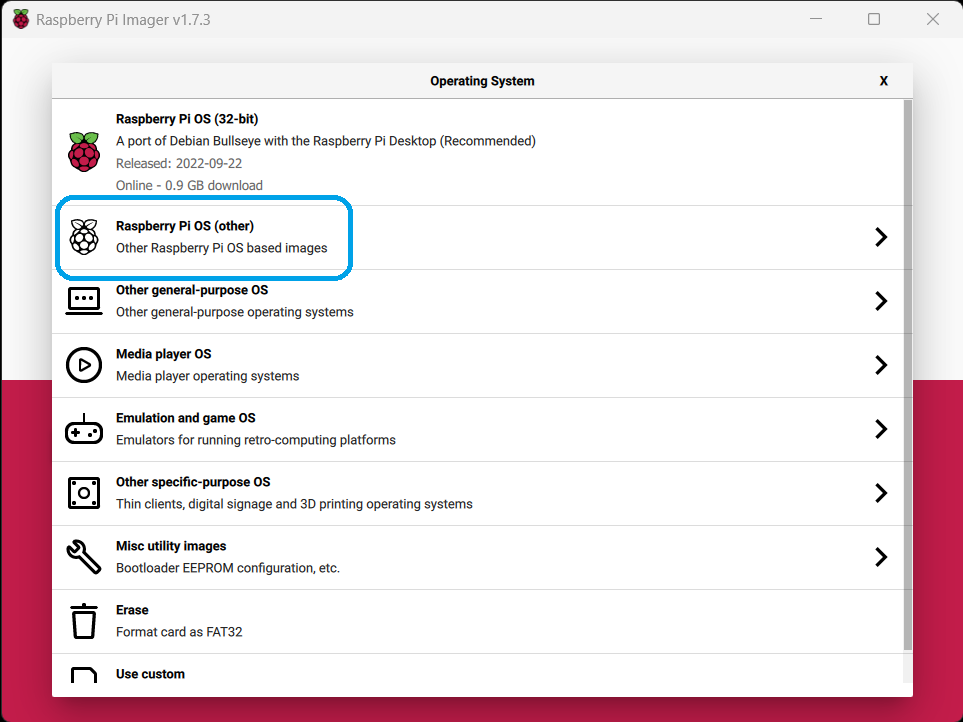
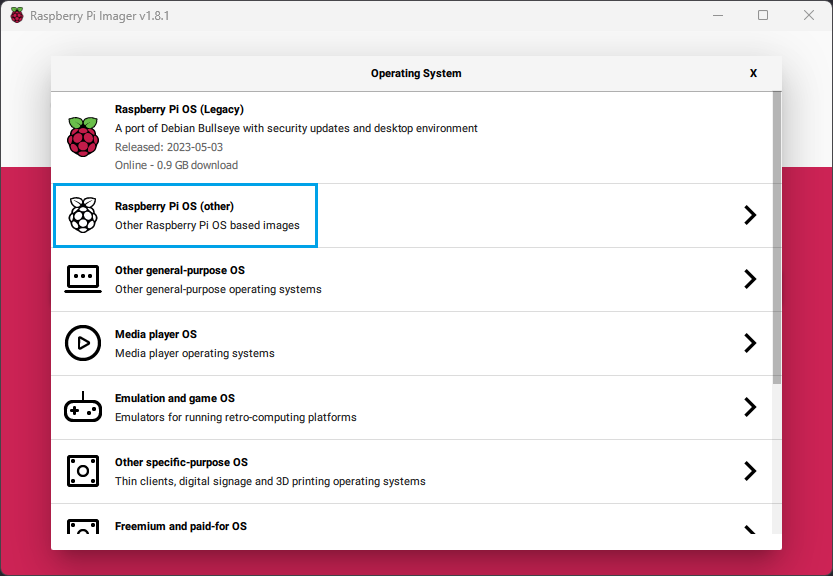
Update pisetup.md
Update RPi OS installation to use latest version v1.8.1 of RPi imager.

diff --git a/docs/software/pisetup.md b/docs/software/pisetup.md
@@ -15,97 +15,125 @@ Raspberry Pi. You can find more details on this topic and instructions for macOS
 [VS Code Docs](https://code.visualstudio.com/docs/remote/troubleshooting#_configuring-key-based-authentication){target=_blank} and
 [Raspberry Pi Docs](https://www.raspberrypi.com/documentation/computers/remote-access.html#passwordless-ssh-access){target=_blank}.
 
-First check if there is already an SSH key on your computer by going to the
-`C:\Users\<username>\.ssh` folder. If there is a file named `id_rsa.pub` you can
-skip this step and move on to [RPi OS installation](#raspberry-pi-os-installation).
-If you can't find the `.ssh` folder or the key file, you will have to generate
-a new SSH key pair on your local PC.
-[Open](https://www.digitalcitizen.life/open-windows-terminal/){target=_blank}
-a local Terminal (Windows PowerShell) and run the following command:
+Since [version 1.8.1](https://github.com/raspberrypi/rpi-imager/releases/tag/v1.8.1){target=_blank}
+of the Raspberry Pi Imager, you can now easily generate a new SSH key pair during
+Raspberry Pi OS installation in the next step. If you still want to generate your
+SSH key pair manually or set up SSH key based authentication after SD card setup,
+follow the steps in the info box.
 
-``` powershell
-ssh-keygen -t rsa -b 4096
-```
+??? info "Generate SSH key manually"
 
-Save the key to the default location `C:\Users\<username>/.ssh/id_rsa` by hitting ++enter++.
-When you are asked to enter a passphrase, leave the field empty and hit ++enter++ twice.
-You have now generated a private and public SSH key, and will be able to select
-**public-key authentication** during the [RPi OS installation](#raspberry-pi-os-installation).
-
-!!! tip ""
-
-    If you want to connect your Raspberry Pi to multiple local PCs with SSH
-    key based authentication, generate an SSH key pair on each local PC and
-    copy the line with the public key from `/.ssh/id_rsa.pub` on your PC to
-    a new row in `/home/pi/.ssh/authorized_keys` on your Raspberry Pi.
-
-    ![Raspberry Pi add SSH key](assets/images/vscode_raspberry_add_ssh_key.png){ width="600" }
-
-??? info "Optional: SSH key based authentication after SD card setup"
-
-    If you already have the SD card prepared without public-key authentication,
-    you can still configure this by following the steps above to generate the
-    key pair and then (while connected to your Raspberry Pi via SSH) running
-    the following command in your local Terminal (Windows PowerShell):
+    First check if there is already an SSH key pair on your computer by going to
+    the `C:\Users\<username>\.ssh` folder. If there are two files named `id_rsa`
+    and `id_rsa.pub` you can skip this step and move on to
+    [RPi OS installation](#raspberry-pi-os-installation). If you can't find the `.ssh`
+    folder or the key files, you will have to generate a new SSH key pair on your PC.
+    [Open](https://www.digitalcitizen.life/open-windows-terminal/){target=_blank}
+    a local Terminal (Windows PowerShell) and run the following command:
 
     ``` powershell
-    cat ~/.ssh/id_rsa.pub | ssh pi@<IP-ADDRESS> 'mkdir -p ~/.ssh && cat >> ~/.ssh/authorized_keys'
+    ssh-keygen -t rsa -b 4096
     ```
 
-    Please make sure to enter the correct `IP address` (or hostname) of your
-    Raspberry Pi. After entering your RPi password, your public SSH key will be
-    saved to `/home/pi/.ssh/authorized_keys`. After that you won't be asked to
-    enter your password again, as the authentication is now based on the SSH key.
+    Save the key to the default location `C:\Users\<username>/.ssh/id_rsa` by
+    hitting ++enter++. When you are asked to enter a passphrase, leave the field
+    empty and hit ++enter++ twice. You have now generated a private and public
+    SSH key. The public SSH key should be automatically inserted during the
+    [RPi OS installation](#raspberry-pi-os-installation) in the next step, if
+    you choose public-key authentication.
+
+    !!! tip ""
+
+        If you want to connect your Raspberry Pi to multiple local PCs with SSH
+        key based authentication, generate an SSH key pair on each local PC and
+        copy the line with the public key from `/.ssh/id_rsa.pub` on your PC to
+        a new row in `/home/pi/.ssh/authorized_keys` on your Raspberry Pi.
+
+        ![Raspberry Pi add SSH key](assets/images/vscode_raspberry_add_ssh_key.png){ width="600" }
+
+    ??? info "Optional: SSH key based authentication after SD card setup"
+
+        If you already have the SD card prepared without public-key authentication,
+        you can still configure this by following the steps above to generate the
+        key pair and then (while connected to your Raspberry Pi via SSH) running
+        the following command in your local Terminal (Windows PowerShell):
+
+        ``` powershell
+        cat ~/.ssh/id_rsa.pub | ssh pi@<IP-ADDRESS> 'mkdir -p ~/.ssh && cat >> ~/.ssh/authorized_keys'
+        ```
+
+        Please make sure to enter the correct `IP address` (or hostname) of your
+        Raspberry Pi. After entering your RPi password, your public SSH key will be
+        saved to `/home/pi/.ssh/authorized_keys`. After that you won't be asked to
+        enter your password again, as the authentication is now based on the SSH key.
 
 ---
 
 ## Raspberry Pi OS installation
 
-Insert the microSD card into your card reader and start the Raspberry Pi
-Imager. First, we will choose the appropriate OS.
+Insert the microSD card into your card reader and open the Raspberry Pi
+Imager. Start with selecting your device (Raspberry Pi model).
 
-![Raspberry Pi Imager Start](assets/images/raspberrypi_imager_start.png){ width="600" }
+![Raspberry Pi Imager choose device](assets/images/raspberrypi_imager_device.png){ width="700" }
 
-We don't want to install the default OS with Desktop, so you have to go to the
-other Raspberry Pi OS based images.
+If you are using the recommended model Raspberry Pi Zero 2 W, select it.
 
-![Raspberry Pi Imager choose OS](assets/images/raspberrypi_imager_choose_os.png){ width="600" }
+![Raspberry Pi Imager RPi Zero 2 W](assets/images/raspberrypi_imager_rpizero2w.png){ width="700" }
+
+Choose the RPi OS in the next step. We don't want to install the default OS with
+Desktop, so you have to go to the other Raspberry Pi OS based images.
+
+![Raspberry Pi Imager choose OS](assets/images/raspberrypi_imager_choose_os.png){ width="700" }
 
 Select the option **Raspberry Pi OS (Legacy) Lite** (Debian Bullseye). The new Raspberry Pi OS
 ([Debian Bookworm](https://www.raspberrypi.com/news/bookworm-the-new-version-of-raspberry-pi-os/){target=_blank}),
 released 2023-10-10, introduces several changes including the setup and configuration
-options. Until we tested the new version and updated the following instructions
-accordingly, install the Legacy version for now.
+options. It is not yet recommended and tested with the software.
 
-![Raspberry Pi Imager choose lite OS](assets/images/raspberrypi_imager_choose_os_lite.png){ width="600" }
+![Raspberry Pi Imager choose lite OS](assets/images/raspberrypi_imager_choose_os_lite.png){ width="700" }
 
-Now we can choose the storage, where the Raspberry Pi OS will be written to.
-Here you just have to select your microSD card.
+You can now choose the storage. Select your microSD card, which
+will be formatted during the Raspberry Pi OS installation.
 
-![Raspberry Pi Imager choose storage](assets/images/raspberrypi_imager_choose_storage.png){ width="600" }
+![Raspberry Pi Imager choose storage](assets/images/raspberrypi_imager_choose_storage.png){ width="700" }
 
-Click the settings button on the bottom right to change some of the default
-options.
+Hit the **Next** button and choose **Edit settings** when you are
+asked if you would like to apply OS customisation settings.
 
-![Raspberry Pi Imager Start settings](assets/images/raspberrypi_imager_start_settings.png){ width="600" }
+![Raspberry Pi Imager edit settings](assets/images/raspberrypi_imager_edit_settings.png){ width="700" }
+
+Change the following settings under the **General** tab:
 
 - Set the hostname (default: `raspberrypi`). If you will be deploying multiple camera
   traps, you should give each a unique hostname (e.g. `camtrap1`, `camtrap2` etc.).
-- Enable SSH with public-key authentication.
-- Set the username and password. It is recommended to use the default `pi`
-  as username.
-- Enter your WiFi SSID and password, to be able to connect to the Pi via SSH
+- Set the username and password. Use the default `pi` as username.
+- Enter your WiFi SSID and password, to be able to connect to the RPi via SSH
   immediately after the first boot. In some cases it might be beneficial to use a
   [mobile hotspot](https://support.microsoft.com/en-us/windows/use-your-windows-pc-as-a-mobile-hotspot-c89b0fad-72d5-41e8-f7ea-406ad9036b85#WindowsVersion=Windows_11){target=_blank}
   from your PC (e.g. to share restricted WiFi, multiple WiFis or Ethernet).
-  Select the correct Wireless LAN country in the dropdown menu below.
-- Set the locale settings to your time zone and keyboard layout, then press **SAVE**.
+- Select the correct Wireless LAN country in the dropdown menu below.
+- Set the locale settings to your time zone and keyboard layout.
 
-![Raspberry Pi Imager settings](assets/images/raspberrypi_imager_settings.png){ width="600" }
+![Raspberry Pi Imager settings general](assets/images/raspberrypi_imager_settings_general.png){ width="600" }
 
-You can now write the correctly configured Raspberry Pi OS Lite to your SD
-card. After the writing process is finished, insert the SD card into your
-Raspberry Pi.
+Change the following settings under the **Services** tab:
+
+- Enable SSH with public-key authentication.
+- If you didn't already generate an SSH key pair, press **Run SSH-Keygen**
+  to generate a new SSH key pair. The public key will be automatically
+  inserted in the text field.
+
+![Raspberry Pi Imager settings services](assets/images/raspberrypi_imager_settings_services.png){ width="600" }
+
+You can keep the default settings under the **Options** tab. Hit **Save**
+and choose **Yes** when you are asked if you would like to apply your
+OS customisation settings.
+
+![Raspberry Pi Imager settings options](assets/images/raspberrypi_imager_settings_options.png){ width="600" }
+
+You can now write the correctly configured Raspberry Pi OS Lite to your
+microSD card. After the writing process is finished, insert the SD card
+into your Raspberry Pi.
 
 ---
 
